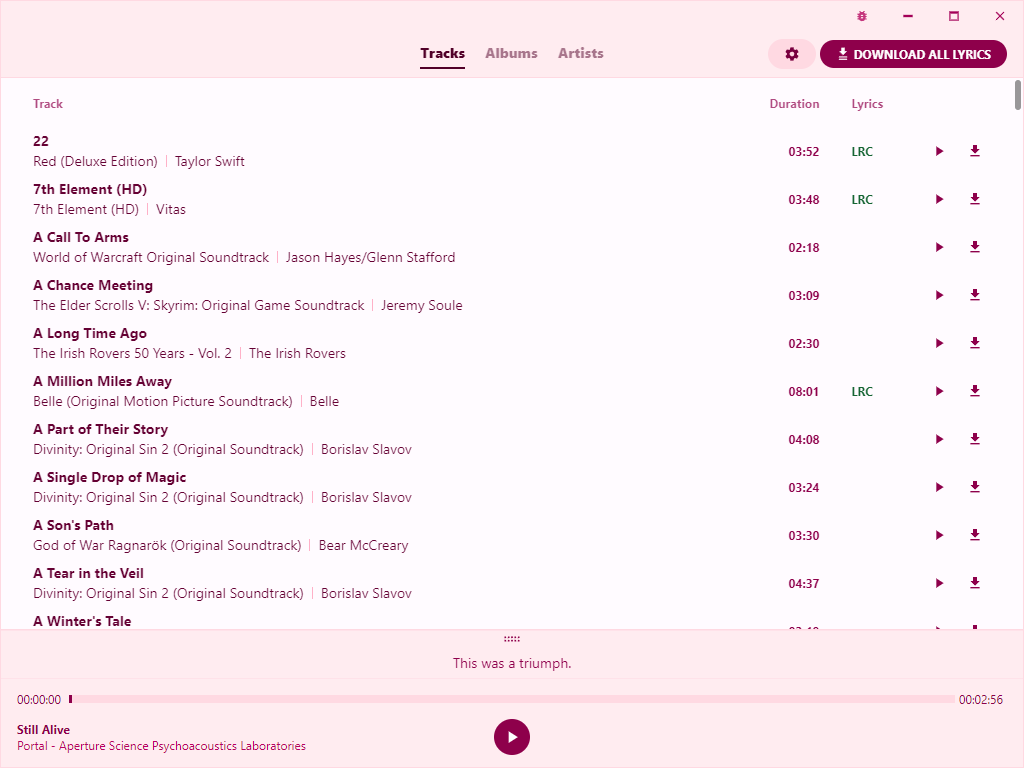
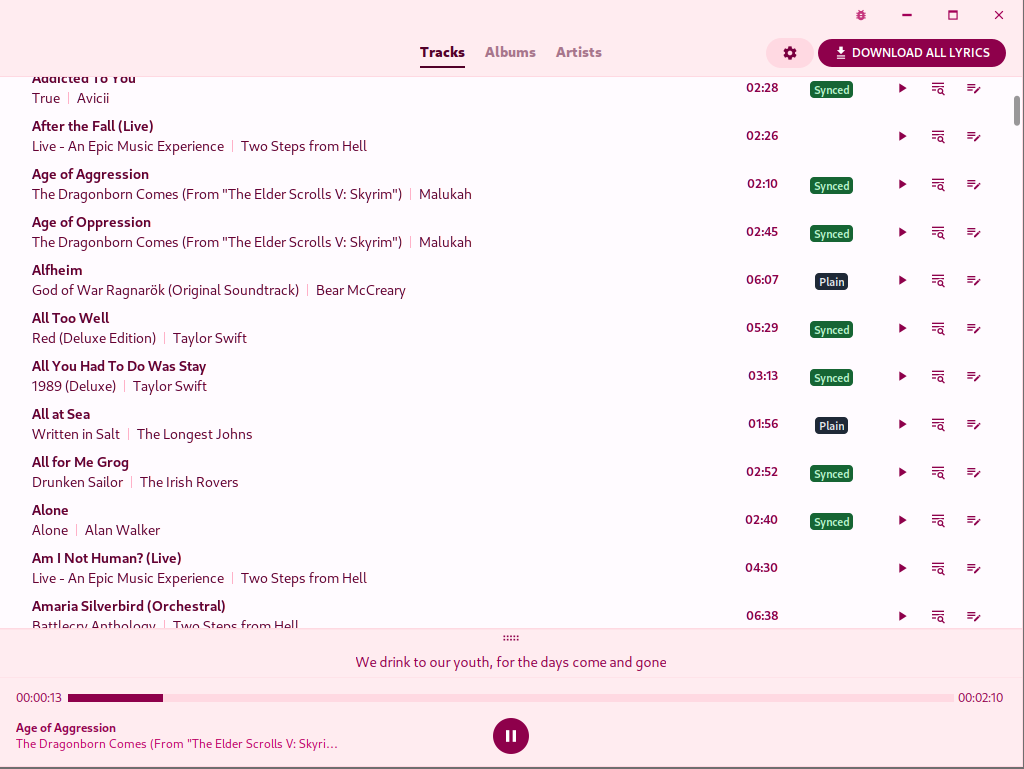
Some minor changes, update README and screenshots

diff --git a/src/components/library/EditLyrics.vue b/src/components/library/EditLyrics.vue
@@ -1,6 +1,6 @@
 <template>
   <div>
-    <div class="fixed top-0 left-0 h-full w-full flex items-center justify-center z-30" :class="{ 'hidden': !props.isShow }">
+    <div class="fixed top-0 left-0 h-full w-full flex items-center justify-center z-30 select-none" :class="{ 'hidden': !props.isShow }">
       <div class="w-full h-[80vh] max-w-screen-lg rounded-lg m-4 bg-white flex flex-col gap-2">
         <div class="flex-none flex justify-between items-center px-6 py-2">
           <div class="flex gap-1">

diff --git a/src-tauri/src/lyrics.rs b/src-tauri/src/lyrics.rs
@@ -13,7 +13,7 @@ pub enum GetLyricsError {
   OnlyUnsyncedLyrics,
   #[error("This track is instrumental")]
   IsInstrumental,
-  #[error("This track does not exist in lrclib database")]
+  #[error("This track does not exist in LRCLIB database")]
   NotFound
 }
 

diff --git a/README.md b/README.md
@@ -4,33 +4,45 @@ Utility for mass-downloading LRC synced lyrics for your offline music library.
 
 LRCGET will scan every files in your chosen directory for music files, then and try to download lyrics to a LRC files having the same name and save them to the same directory as your music files.
 
+LRCGET is the official client of [LRCLIB](https://lrclib.net) service.
+
 ## Screenshots
 
-![01.png](screenshots/01.png?1)
+![01.png](screenshots/01.png?2)
 
-![02.png](screenshots/02.png?1)
+![02.png](screenshots/02.png?2)
 
-![03.png](screenshots/03.png?1)
+![03.png](screenshots/03.png?2)
 
-![04.png](screenshots/04.png?1)
+![04.png](screenshots/04.png?2)
+
+![05.png](screenshots/04.png?2)
 
 ## Download
 
-🎉 Newest version: v0.1.0
+🎉 Newest version: v0.2.0
 
 Visit the [release page](https://github.com/tranxuanthang/lrcget/releases).
 
 OS Support:
 
 - [x] Windows 10
-- [x] Linux (experimental)
+- [x] Linux
 - [x] macOS (experimental)
 
 ## Donation
 
 Toss a coin to your developer?
 
+Buy Me a Coffee:
+
 <a href="https://www.buymeacoffee.com/thangtran" target="_blank"><img src="https://cdn.buymeacoffee.com/buttons/default-orange.png" alt="Buy Me A Coffee" height="41" width="174"></a>
+
+Monero (XMR):
+
+```
[1 lines of base64/hex data omitted]
+```
 
 ## TODO
 
